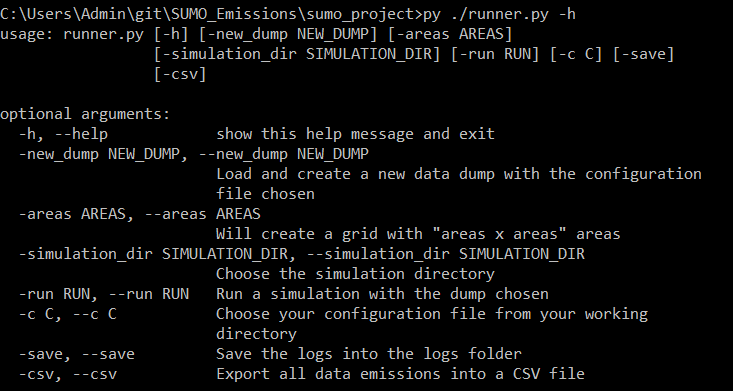
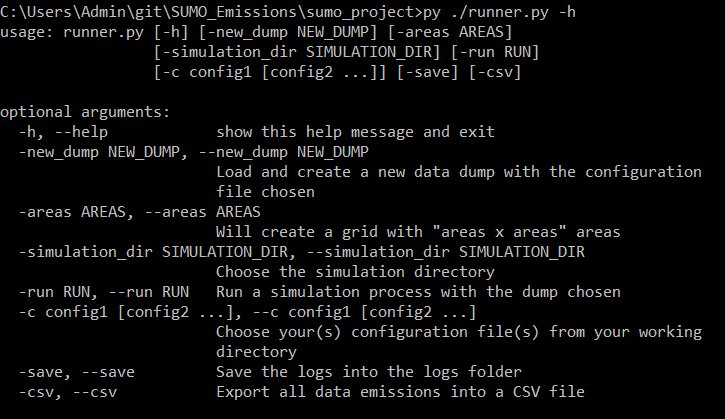
Added imgs for doc

diff --git a/sumo_project/runner.py b/sumo_project/runner.py
@@ -201,9 +201,9 @@ def add_options(parser):
                         help='Choose the simulation directory')
     
     parser.add_argument("-run", "--run", type=str,
-                        help='Run a simulation with the dump chosen')
-    parser.add_argument("-c", "--c", nargs='+', type=str,
-                        help='Choose your configuration file from your working directory')
+                        help='Run a simulation process with the dump chosen')
+    parser.add_argument("-c", "--c", metavar =('config1','config2'), nargs='+', type=str,
+                        help='Choose your(s) configuration file(s) from your working directory')
     parser.add_argument("-save", "--save", action="store_true",
                         help='Save the logs into the logs folder')
     parser.add_argument("-csv", "--csv", action="store_true",
